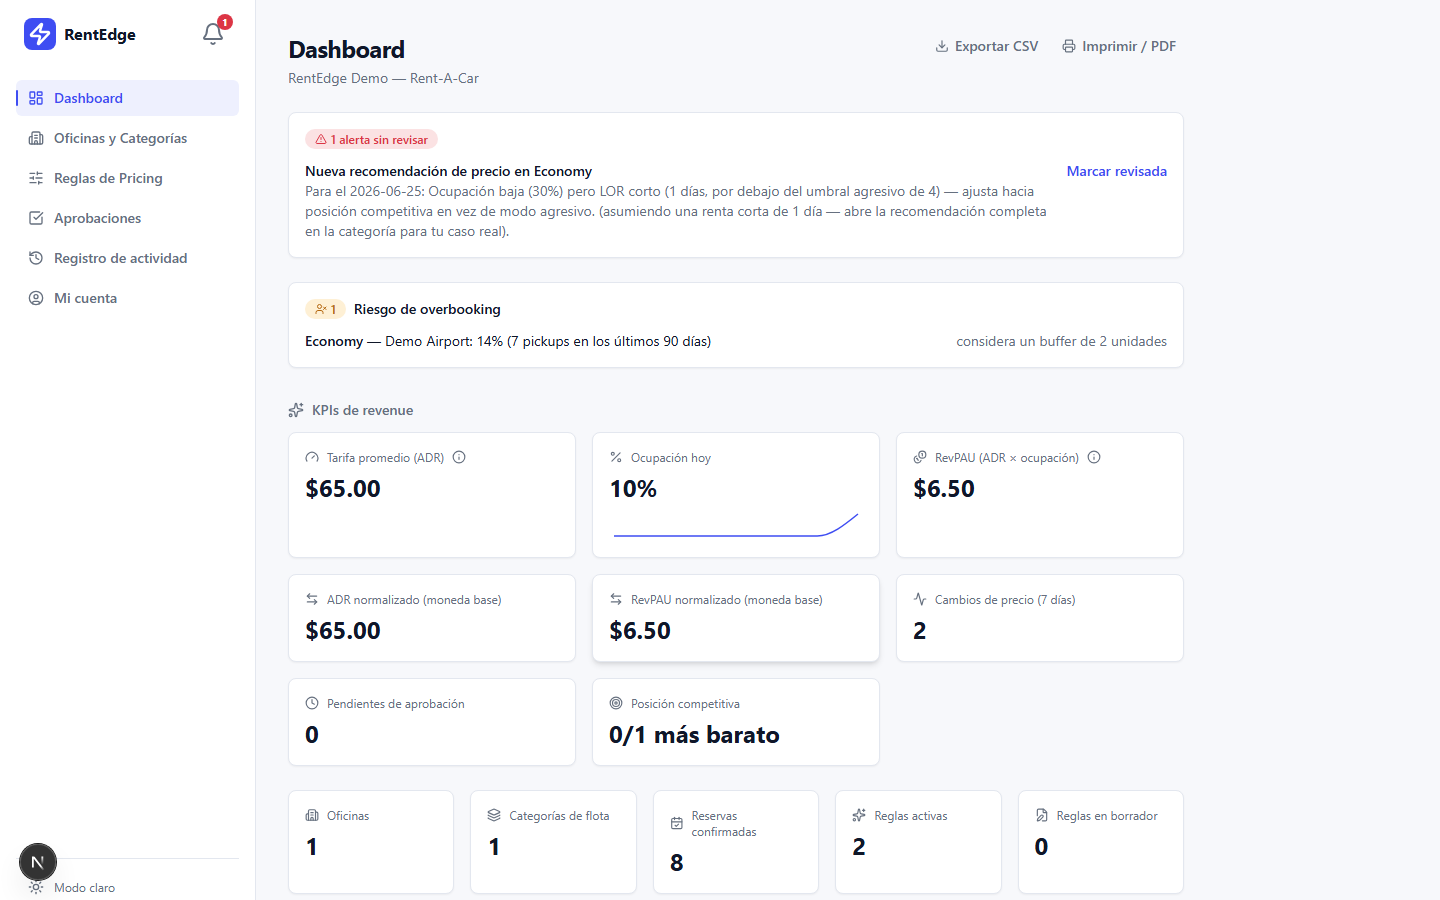
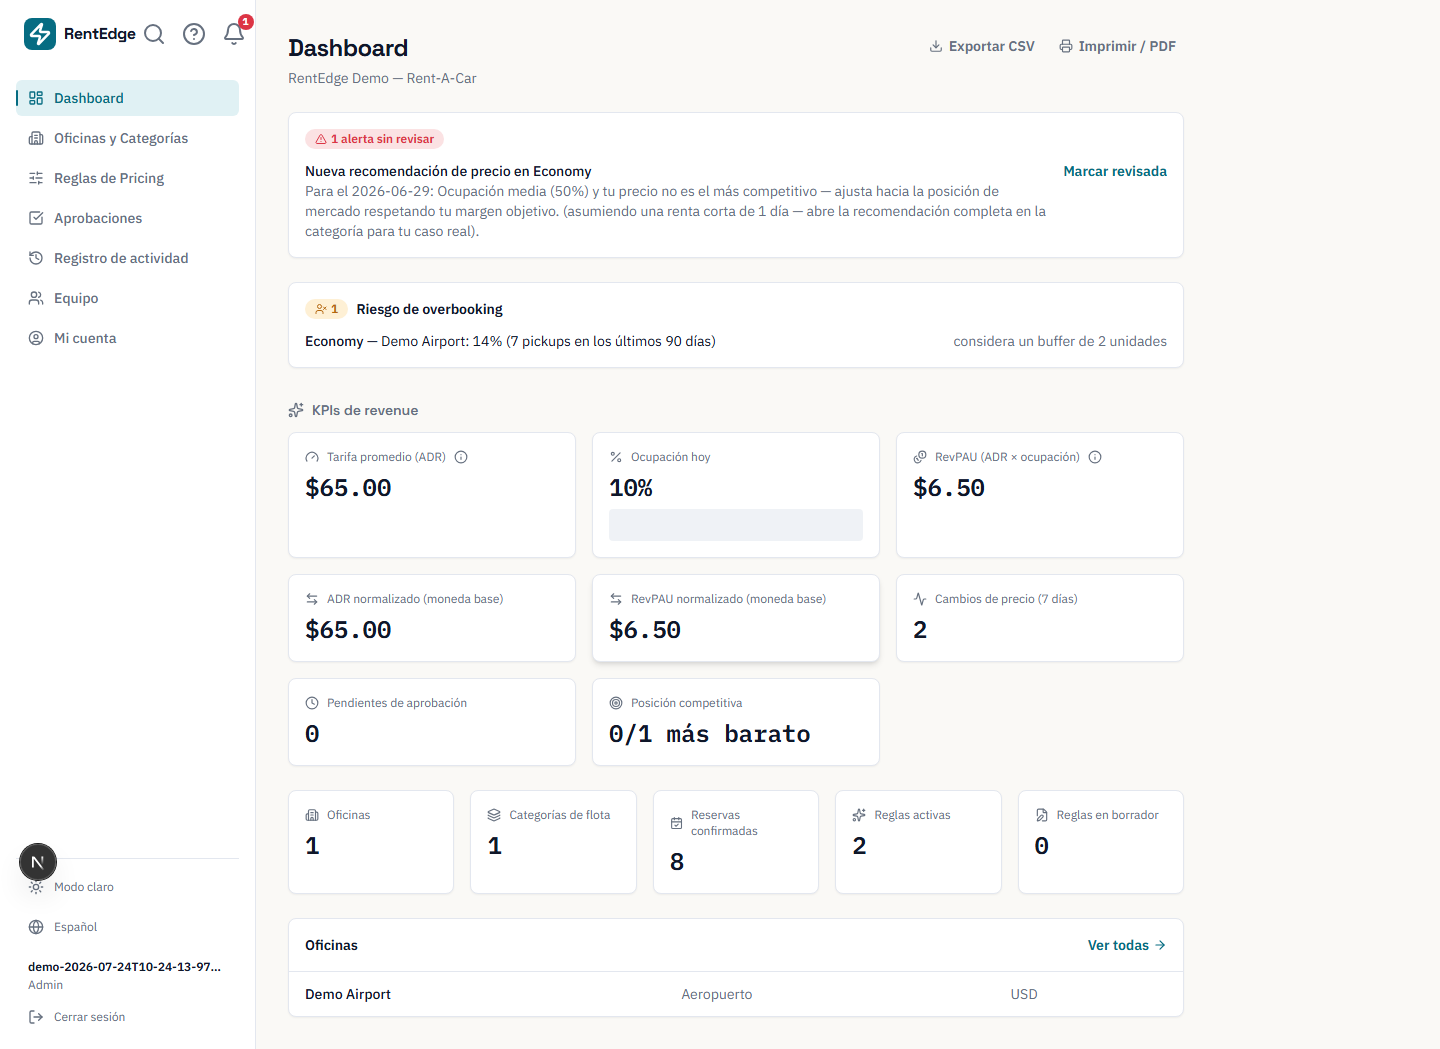
Update RentEdge entry: audit-driven correctness/security round + new visual identity
Content: real test count (1,050+), two new highlights (exact-decimal money
with row-locking against concurrent repricing races, an SSRF guard with DNS
resolution blocking cloud-metadata/private-range webhook destinations).

Screenshots: retaken against a fresh demo tenant to reflect the new teal
identity (replacing stock Tailwind indigo) that shipped across the whole
frontend this round.

diff --git a/src/content/projects.ts b/src/content/projects.ts
@@ -80,6 +80,8 @@ export const projects: Project[] = [
         "Price segmentation by length-of-stay and sales channel, no-show/overbooking risk detection, and deterministic template-based \"why this price changed\" narratives generated from stored rule facts — a $0 alternative to a paid AI pricing assistant",
         "Multi-country tax/currency support (USD/DOP/MXN) and a general activity/audit log capturing every mutating request via a single global middleware, not per-endpoint instrumentation",
         "Public OpenAPI/Swagger docs and automated nightly Postgres backups to Cloudflare R2, with the restore cycle itself verified in CI, not just the backup",
+        "Money modeled as exact decimal (not float) end-to-end, with row-level locking around every price mutation so two concurrent repricing events can never silently overwrite each other's result",
+        "An SSRF guard (with real DNS-rebinding resolution, not string matching) blocks outbound tenant webhooks from ever reaching a cloud metadata endpoint or private network range; JWT sessions carry live revocation so deactivating a user actually invalidates their existing token",
       ],
       es: [
         "Monorepo NestJS + Next.js (Turborepo) con una capa de microservicios en Python para scraping y forecasting con ML, aislada por perfil de carga",
@@ -90,10 +92,12 @@ export const projects: Project[] = [
         "Segmentación de precio por duración de estadía y canal de venta, detección de riesgo de no-show/overbooking, y narrativas deterministas basadas en plantillas (\"por qué cambió este precio\") generadas desde los mismos facts de las reglas — una alternativa a $0 frente a un asistente de IA pago",
         "Soporte multi-país de impuestos/moneda (USD/DOP/MXN) y un log de actividad/auditoría general que captura cada request mutante vía un único middleware global, no instrumentación por endpoint",
         "Documentación pública OpenAPI/Swagger y backups automáticos nocturnos de Postgres a Cloudflare R2, con el ciclo de restore verificado en CI, no solo el backup",
+        "Dinero modelado como decimal exacto (no float) de punta a punta, con locking a nivel de fila en cada mutación de precio para que dos eventos de repricing concurrentes nunca se pisen en silencio",
+        "Un guard anti-SSRF (con resolución real de DNS-rebinding, no comparación de strings) impide que un webhook de tenant llegue jamás a un endpoint de metadata de la nube o a un rango de red privada; las sesiones JWT tienen revocación real, así que desactivar un usuario invalida su token en el acto",
       ],
     },
     metrics: [
-      { label: { en: "Backend tests", es: "Tests de backend" }, value: "700+ (unit + e2e)" },
+      { label: { en: "Backend tests", es: "Tests de backend" }, value: "1,050+ (unit + e2e)" },
       { label: { en: "Services", es: "Servicios" }, value: "API + Web + 2 Python microservices" },
     ],
     links: [{ label: PRIVATE_LABEL, href: "mailto:kelvisguerrero03@gmail.com?subject=RentEdge%20repo%20access", icon: "external" }],
